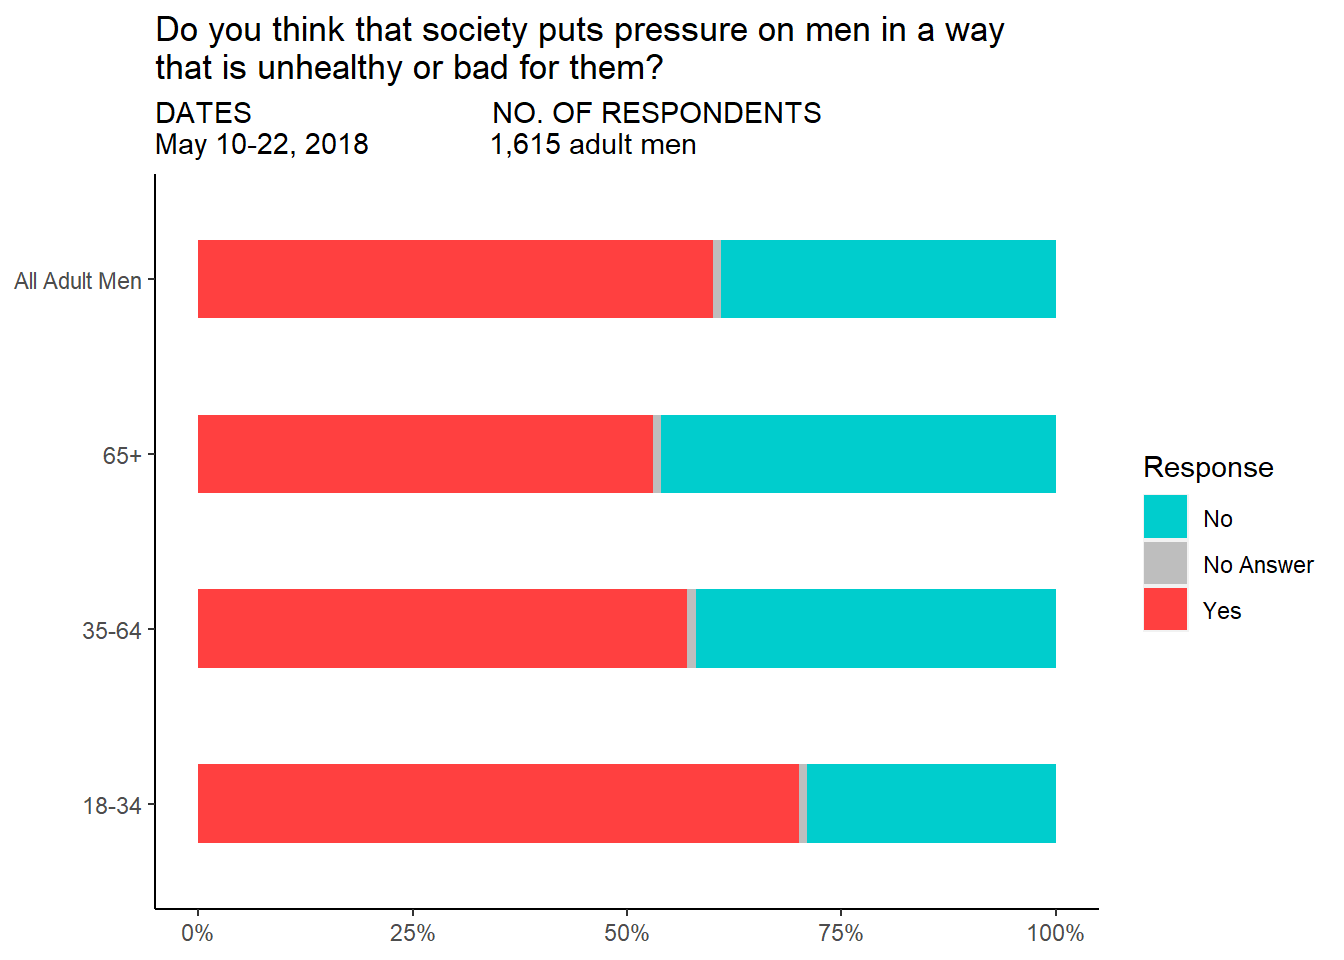
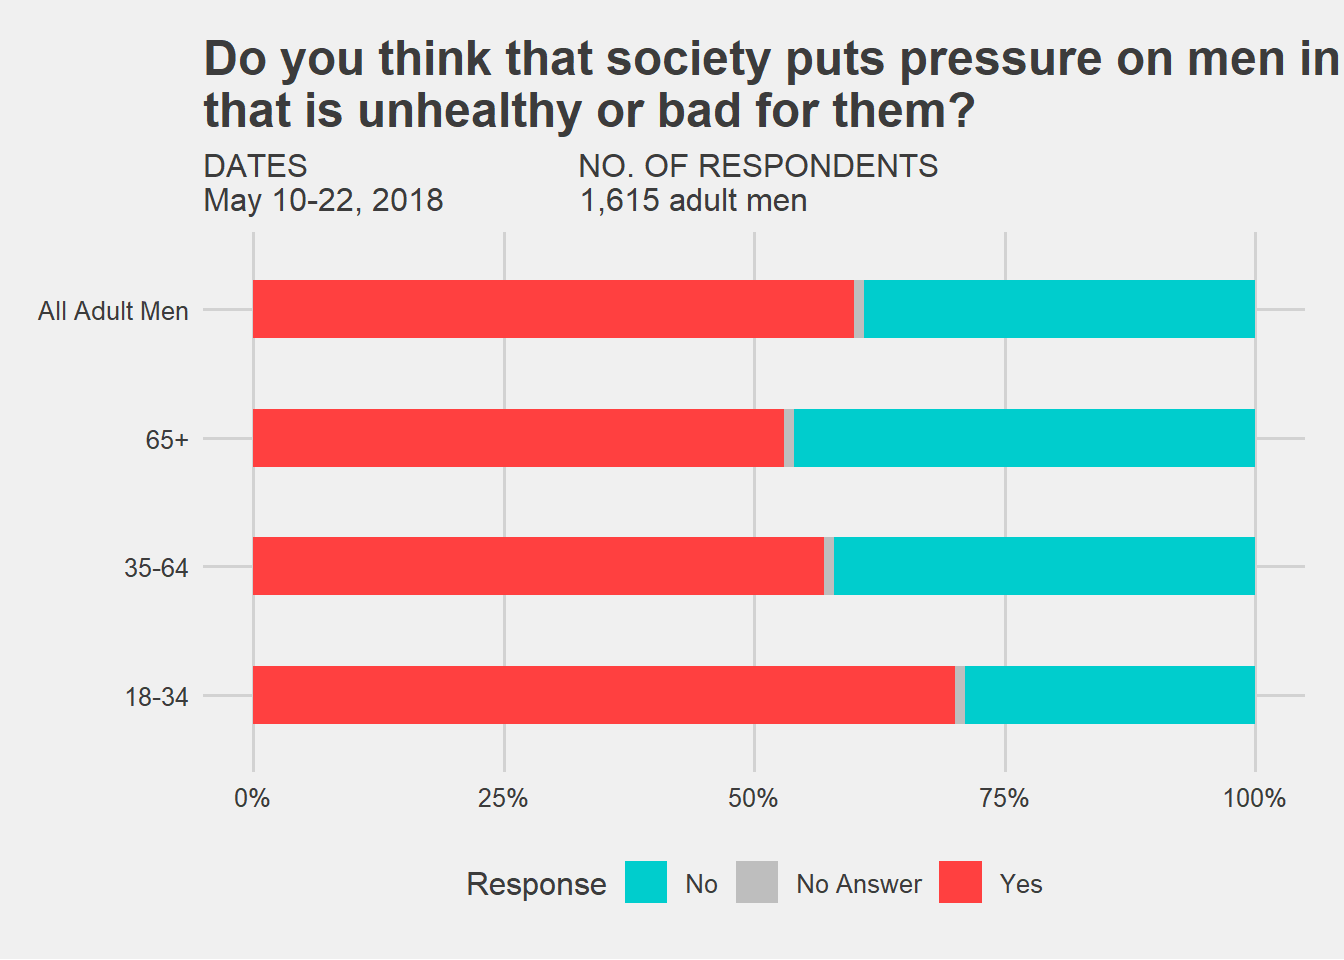
not sure

diff --git a/docs/visualization_exercise.html b/docs/visualization_exercise.html
@@ -236,7 +236,8 @@ Attaching package: 'dplyr'</code></pre>
 <div class="cell-output cell-output-stderr">
 <pre><code>here() starts at C:/Users/vjpan/Desktop/MADA/MADA2023/vijaypanthayi-MADA-portfolio</code></pre>
 </div>
-<div class="sourceCode cell-code" id="cb7"><pre class="sourceCode r code-with-copy"><code class="sourceCode r"><span id="cb7-1"><a href="#cb7-1" aria-hidden="true" tabindex="-1"></a><span class="fu">library</span>(ggpubr)</span></code><button title="Copy to Clipboard" class="code-copy-button"><i class="bi"></i></button></pre></div>
+<div class="sourceCode cell-code" id="cb7"><pre class="sourceCode r code-with-copy"><code class="sourceCode r"><span id="cb7-1"><a href="#cb7-1" aria-hidden="true" tabindex="-1"></a><span class="fu">library</span>(ggpubr)</span>
+<span id="cb7-2"><a href="#cb7-2" aria-hidden="true" tabindex="-1"></a><span class="fu">library</span>(ggthemes)</span></code><button title="Copy to Clipboard" class="code-copy-button"><i class="bi"></i></button></pre></div>
 </div>
 <p>Next, we want to import the raw data into R.</p>
 <div class="cell">
@@ -304,15 +305,18 @@ $ X.5                &lt;chr&gt; "Gay/Bisexual", "", "21%", "49%", "19%", "10%",
 <span id="cb12-15"><a href="#cb12-15" aria-hidden="true" tabindex="-1"></a>       <span class="at">subtitle=</span><span class="st">'DATES                              NO. OF RESPONDENTS</span><span class="sc">\n</span><span class="st">May 10-22, 2018               1,615 adult men'</span>)</span>
 <span id="cb12-16"><a href="#cb12-16" aria-hidden="true" tabindex="-1"></a></span>
 <span id="cb12-17"><a href="#cb12-17" aria-hidden="true" tabindex="-1"></a><span class="co">#prints the final plot, removed the axis titles, removed grid and background</span></span>
-<span id="cb12-18"><a href="#cb12-18" aria-hidden="true" tabindex="-1"></a>finalplot <span class="sc">+</span> <span class="fu">theme</span>(<span class="at">axis.title.x =</span> <span class="fu">element_blank</span>(),</span>
-<span id="cb12-19"><a href="#cb12-19" aria-hidden="true" tabindex="-1"></a>          <span class="at">axis.title.y =</span> <span class="fu">element_blank</span>(),</span>
-<span id="cb12-20"><a href="#cb12-20" aria-hidden="true" tabindex="-1"></a>          <span class="at">panel.grid.major =</span> <span class="fu">element_blank</span>(), </span>
-<span id="cb12-21"><a href="#cb12-21" aria-hidden="true" tabindex="-1"></a>          <span class="at">panel.grid.minor =</span> <span class="fu">element_blank</span>(),</span>
-<span id="cb12-22"><a href="#cb12-22" aria-hidden="true" tabindex="-1"></a>          <span class="at">panel.background =</span> <span class="fu">element_blank</span>(), </span>
-<span id="cb12-23"><a href="#cb12-23" aria-hidden="true" tabindex="-1"></a>          <span class="at">axis.line =</span> <span class="fu">element_line</span>(<span class="at">colour =</span> <span class="st">"black"</span>))</span></code><button title="Copy to Clipboard" class="code-copy-button"><i class="bi"></i></button></pre></div>
+<span id="cb12-18"><a href="#cb12-18" aria-hidden="true" tabindex="-1"></a>finalplotbase <span class="ot">&lt;-</span> finalplot <span class="sc">+</span> <span class="fu">theme_fivethirtyeight</span>()</span>
+<span id="cb12-19"><a href="#cb12-19" aria-hidden="true" tabindex="-1"></a>finalplotbase</span></code><button title="Copy to Clipboard" class="code-copy-button"><i class="bi"></i></button></pre></div>
 <div class="cell-output-display">
 <p><img src="visualization_exercise_files/figure-html/unnamed-chunk-4-1.png" class="img-fluid" width="672"></p>
 </div>
+<div class="sourceCode cell-code" id="cb13"><pre class="sourceCode r code-with-copy"><code class="sourceCode r"><span id="cb13-1"><a href="#cb13-1" aria-hidden="true" tabindex="-1"></a><span class="co">#THE FOLLOWING WAS IN PLACE PRIOR TO HELP/REVIEW FROM BETELIHEM</span></span>
+<span id="cb13-2"><a href="#cb13-2" aria-hidden="true" tabindex="-1"></a>  <span class="co">#theme(axis.title.x = element_blank(),</span></span>
+<span id="cb13-3"><a href="#cb13-3" aria-hidden="true" tabindex="-1"></a>   <span class="co">#       axis.title.y = element_blank(),</span></span>
+<span id="cb13-4"><a href="#cb13-4" aria-hidden="true" tabindex="-1"></a>    <span class="co">#      panel.grid.major = element_blank(), </span></span>
+<span id="cb13-5"><a href="#cb13-5" aria-hidden="true" tabindex="-1"></a>     <span class="co">#     panel.grid.minor = element_blank(),</span></span>
+<span id="cb13-6"><a href="#cb13-6" aria-hidden="true" tabindex="-1"></a>      <span class="co">#    panel.background = element_blank(), </span></span>
+<span id="cb13-7"><a href="#cb13-7" aria-hidden="true" tabindex="-1"></a>       <span class="co">#   axis.line = element_line(colour = "black"))</span></span></code><button title="Copy to Clipboard" class="code-copy-button"><i class="bi"></i></button></pre></div>
 </div>
 <p>This does not look EXACTLY like the original, but it is a close copy to it.</p>
 <p>Things of note I am not able to make exact:</p>
